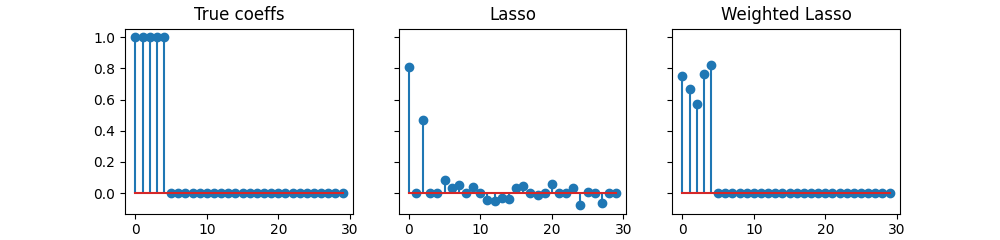
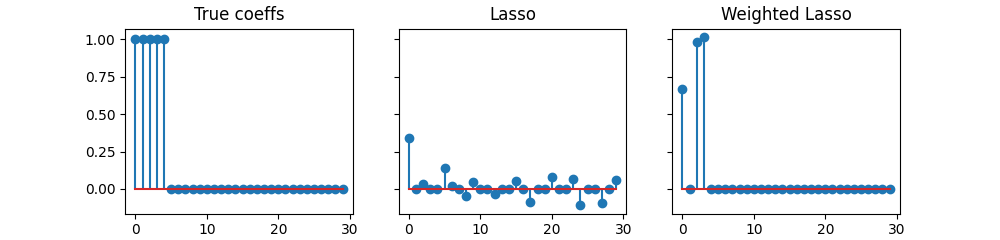
Generate Pelican site [ci skip]

diff --git a/searchindex.js b/searchindex.js
@@ -1,1 +1,1 @@
-Search.setIndex({docnames:["add","api","auto_examples/index","auto_examples/plot_lasso_vs_weighted","auto_examples/plot_pen_prox","auto_examples/plot_zero_weights_lasso","auto_examples/sg_execution_times","generated/andersoncd.ElasticNet","generated/andersoncd.Lasso","generated/andersoncd.MCP","generated/andersoncd.WeightedLasso","generated/andersoncd.data.make_correlated_data","generated/andersoncd.penalties.L1","generated/andersoncd.penalties.L1_plus_L2","generated/andersoncd.penalties.MCP_pen","generated/andersoncd.penalties.WeightedL1","index"],envversion:{"sphinx.domains.c":2,"sphinx.domains.changeset":1,"sphinx.domains.citation":1,"sphinx.domains.cpp":4,"sphinx.domains.index":1,"sphinx.domains.javascript":2,"sphinx.domains.math":2,"sphinx.domains.python":3,"sphinx.domains.rst":2,"sphinx.domains.std":2,"sphinx.ext.intersphinx":1,sphinx:56},filenames:["add.rst","api.rst","auto_examples/index.rst","auto_examples/plot_lasso_vs_weighted.rst","auto_examples/plot_pen_prox.rst","auto_examples/plot_zero_weights_lasso.rst","auto_examples/sg_execution_times.rst","generated/andersoncd.ElasticNet.rst","generated/andersoncd.Lasso.rst","generated/andersoncd.MCP.rst","generated/andersoncd.WeightedLasso.rst","generated/andersoncd.data.make_correlated_data.rst","generated/andersoncd.penalties.L1.rst","generated/andersoncd.penalties.L1_plus_L2.rst","generated/andersoncd.penalties.MCP_pen.rst","generated/andersoncd.penalties.WeightedL1.rst","index.rst"],objects:{"andersoncd.ElasticNet":{__init__:[7,1,1,""]},"andersoncd.Lasso":{__init__:[8,1,1,""]},"andersoncd.MCP":{__init__:[9,1,1,""]},"andersoncd.WeightedLasso":{__init__:[10,1,1,""]},"andersoncd.data":{make_correlated_data:[11,3,1,""]},"andersoncd.penalties":{L1:[12,0,1,""],L1_plus_L2:[13,0,1,""],MCP_pen:[14,0,1,""],WeightedL1:[15,0,1,""]},"andersoncd.penalties.L1":{__init__:[12,1,1,""]},"andersoncd.penalties.L1_plus_L2":{__init__:[13,1,1,""]},"andersoncd.penalties.MCP_pen":{__init__:[14,1,1,""]},"andersoncd.penalties.WeightedL1":{__init__:[15,1,1,""]},andersoncd:{ElasticNet:[7,0,1,""],Lasso:[8,0,1,""],MCP:[9,0,1,""],WeightedLasso:[10,0,1,""],data:[1,2,0,"-"]}},objnames:{"0":["py","class","Python class"],"1":["py","method","Python method"],"2":["py","module","Python module"],"3":["py","function","Python function"]},objtypes:{"0":"py:class","1":"py:method","2":"py:module","3":"py:function"},terms:{"0":[0,3,4,5,6,7,8,9,10,11],"00":[5,6],"0001":[7,8,9,10],"01":5,"02":5,"03":5,"05":5,"06":5,"07":6,"08":5,"08e":5,"09":6,"1":[0,3,4,5,7,8,9,10,11],"10":[3,5,7,8,9,10],"100":[5,7,8,9,10,11],"12":5,"13e":5,"14":5,"1582":5,"1583":5,"17":6,"19":[7,8,9,10],"1e":5,"2":[0,3,4,5,7,8,9,10,11],"20":5,"2018":[7,8,9,10],"2020":[7,8,9,10],"2021":[7,8,9,10],"20e":5,"22":5,"2_2":[7,8,9,10],"3":[3,4,5,7,8,9,10,11],"30":3,"300":4,"32":5,"357":[5,6],"387":[4,6],"4":[3,5],"5":[3,4,5,7],"50":[3,5,11],"50000":[7,8,9,10],"530":6,"53e":5,"54":5,"587":[7,8,9,10],"6":[5,11],"7":[4,5],"71e":5,"77e":5,"786":[3,6],"8":[4,5],"82e":5,"84e":5,"86e":5,"9":[3,5],"98e":5,"class":[0,7,8,9,10,12,13,14,15],"default":[7,8,9,10,11],"do":16,"float":[5,7,8,9,10,11],"function":[7,8,9,10],"import":[3,4,5,16],"int":[7,8,9,10,11],"new":0,"return":[0,11],"true":[3,4,5,7,8,9,10,11],"try":5,"while":3,A:[0,7,8,9,10,11],For:[0,7,9],If:[9,10,11,16],In:11,The:[5,7,8,9,10,11],To:[0,16],With:[0,9],_1:0,_:[3,5],__class__:4,__init__:[0,7,8,9,10,12,13,14,15],__name__:4,_cmap:5,_cmap_r:5,_name:5,_r:5,ab:[0,3,5],abl:16,abstractmethod:0,acceler:[5,7,8,9,10],accord:11,ad:11,adapt:5,aistat:[7,8,9,10],algorithm:9,all:2,allow:5,alpha:[0,3,4,5,7,8,9,10,12,13,14,15],alpha_max:[3,5],alreadi:5,amount:[7,8,9,10],an:[7,8,9,10,11],anaconda:16,anderson:[5,7,8,9,10,16],andersoncd:[0,1,3,4,5],ani:[0,16],applic:9,ar:[0,10],arbitrari:0,arg:[12,13,14,15],arrai:[0,4,7,8,9,10,11],assum:3,astyp:[0,5],attribut:[7,8,9,10,12,13,14,15],author:[3,4],auto_exampl:6,auto_examples_jupyt:2,auto_examples_python:2,avail:16,axarr:[3,4],axi:[0,3,5],axvlin:5,base:[7,8,9,10],basedatafit:0,basepenalti:0,befor:0,bertrand21a:[7,8,9,10],bertrand:[3,7,8,9,10],between:11,biolog:9,block:[3,4,5],bool:[7,8,9,10],bool_:0,breheni:9,c:16,c_:11,call:[7,8,9,10],can:[0,16],cd:[7,8,9,10,16],celer:[5,7,8,9,10],check:16,circleci:5,clf:5,click:[3,4,5],clone:16,cm:5,cmap:5,code:[2,3,4,5],coef_:[3,5,7,8,9,10],coeff:3,coeffici:[0,5,11],color:5,com:[4,16],combin:7,comput:[0,5],configure_plt:5,constant:[7,8,9,10],constrained_layout:4,coordin:[0,7,8,9,10,16],corr:[5,11],correl:11,correspond:0,cost:[7,8,9,10],covari:11,crest:5,crest_r:5,criterion:[7,8,9,10],data:[0,1,3,5],dataset:5,decai:11,decis:[7,8,9,10],declar:0,def:0,defin:0,definit:[7,8,9,10],demonstr:5,densiti:11,descent:[7,8,9,10,16],design:[0,11],detail:9,determin:11,determinist:11,distanc:0,distribut:16,document:16,doe:3,don:16,download:[2,3,4,5],dual:[5,7,8,9,10],e:[10,11,16],each:[7,8,9,10],elast:7,elasticnetcv:7,element:11,els:[0,5],empti:[0,5],entri:11,enumer:0,environ:16,epoch:[7,8,9,10],epsilon:11,equal:[9,10],eras:[7,8,9,10],error:16,estim:[5,7,8,9,10],everyth:16,exampl:[0,3,4,5],execut:6,exist:5,expect:11,extrapol:[7,8,9,10,16],fals:[3,4,5,7,8,9,10],fast:[5,7,8,9,10],feat:5,featur:[0,3,5,9,10,11],fetch_openml:5,fig:[3,4],figsiz:[3,4,5],figur:5,file:6,fine:16,first:[5,7,8,9,10,16],fit:[0,3,5,7,8,9,10],fit_intercept:[3,5,7,8,9,10],fit_transform:5,flare:5,flare_r:5,fontsiz:5,formula:[7,8,9,10],from:[0,3,4,5,16],full:[3,4,5],galleri:[3,4,5],gamma:[4,9,14],gaussian:11,gener:[0,2,3,4,5,11],git:16,github:16,give:16,glm:[7,8,9,10],gmail:4,grad:0,grad_j:0,gradeitn:0,gradient:0,gradient_scalar:0,gradient_scalar_spars:0,gramfort:[7,8,9,10],grow:[7,8,9,10],handl:5,hard:9,have:[3,11],here:[3,4,5],home:5,how:5,html:[7,8,9,10],http:[7,8,9,10,16],huang:9,i:[0,10,11],icefir:5,icefire_r:5,icml:[7,8,9,10],idx:0,idx_i:0,idx_nz:0,illustr:[3,4],implement:0,indic:0,inf:[9,11],inherit:0,initi:[0,7,8,9,10],initialize_spars:0,instanc:11,integ:[7,8,9,10],intercept:[7,8,9,10],intercept_:[7,8,9,10],ipynb:[3,4,5],is_pen:0,iter:[5,7,8,9,10],its:0,j:[0,7,8,9,10,11],jitclass:0,jmlr:[7,8,9,10],jupyt:[2,3,4,5],just:[7,8,9,10,16],k:5,kkt:[0,5],kwarg:[12,13,14,15],l1:[0,4,7,10],l1_plus_l2:4,l1_ratio:[4,7,13],l2:7,la:3,label:4,labelbinar:5,larg:5,larger:9,lasso:[2,6,7,9,10],lassocv:8,last:5,legend:4,len:[0,3,5],leukemia:5,lib:5,librari:16,linalg:[3,5],linear:0,linestyl:5,linspac:4,lipschitz:0,local:5,m:[7,8,9,10],make:11,make_correlated_data:[3,5],mako:5,mako_r:5,mask:0,massia:[3,4,7,8,9,10],massias18a:[7,8,9,10],mathbb:11,mathurin:[3,4],mathurinm:16,matplotlib:[3,4,5],matrix:[0,7,8,9,10,11],max:[0,3,5],max_epoch:[7,8,9,10],max_it:[7,8,9,10],maximum:[7,8,9,10],mb:6,mcp_pen:4,mcpcv:9,mean:11,messag:16,method:[0,7,8,9,10,12,13,14,15],minut:[3,4,5],mix:7,mlr:[7,8,9,10],mode:5,model:[0,11],more:9,mpl_cm:5,must:[0,11],n_featur:[0,3,5,7,8,9,10,11],n_iter_:[7,8,9,10],n_sampl:[3,5,7,8,9,10,11],ndarrai:11,need:0,net:7,nnz:[3,11],nois:[3,11],non:11,nonconvex:9,none:[10,11],norm:[3,5],normal:3,notebook:[2,3,4,5],np:[0,3,4,5,9,11],num:4,number:[7,8,9,10,11],numpi:[3,4,5],obj:9,object:[7,8,9,10],observ:11,ones:0,onli:0,oper:[0,2,6],optim:[7,8,9,10],option:[7,8,9,10],org:[7,8,9,10],other:3,otherwis:[7,8,9,10],out:5,own:0,p0:[7,8,9,10],packag:[5,16],paper:[7,8,9,10],paramet:[0,7,8,9,10,11],part:10,pass:0,pen:[4,9],penal:[0,3,9],penalti:[2,5,6,7,8,9,10],pip:16,plot:4,plot_lasso_vs_weight:[3,6],plot_pen_prox:[4,6],plot_util:5,plot_zero_weights_lasso:[5,6],plt:[3,4,5],posit:10,poster:5,preprocess:5,press:[7,8,9,10],previou:[7,8,9,10],primal:[5,7,8,9,10],proceed:[7,8,9,10],proport:11,prox:9,prox_1d:[0,4],proxim:[0,2,6],prune:[7,8,9,10],put:5,py:[3,4,5,6],pyplot:[3,4,5],python3:5,python:[2,3,4,5,16],q:[7,8,9,10],quad:11,quadrat:0,quentin:3,randn:3,random:[3,11],random_st:[3,11],randomst:11,rang:0,ratio:[3,11],reach:[7,8,9,10],reason:3,recommend:16,refer:[7,8,9,10],regist:5,register_cmap:5,regress:[9,11],repositori:16,represent:[7,8,9,10],requir:5,respect:0,return_x_i:5,reus:[7,8,9,10],rho:11,rocket:5,rocket_r:5,run:[3,4,5,16],s:[7,8,9,10],salmon:[7,8,9,10],sampl:11,scipi:[7,8,9,10],script:[3,4,5],seaborn:5,second:[3,4,5],see:[0,9],select:[3,9,11],self:0,set:[0,7,8,9,10],set_titl:[3,4],shape:[0,3,7,8,9,10,11],sharei:3,shell:16,should:[9,11,16],show:[3,4,5],sign:0,signal:[3,11],simu:5,simul:11,sinc:0,site:5,size:[7,8,9,10],sklearn:5,small:[3,5],smaller:3,smooth:0,snr:11,soft:9,solut:[7,8,9,10],solv:[0,7,8,9,10],solver:[5,7,8,9,10],some:[2,3,4,6],sourc:[2,3,4,5],spars:[0,4,7,8,9,10],sparse_coef_:[7,8,9,10],spec_l1:0,spec_quadrat:0,specifi:[7,8,9,10],sphinx:[2,3,4,5],st:0,standard:11,stem:[3,5],stepsiz:0,still:16,stop:[7,8,9,10],strength:[7,8,9,10],structur:11,subdiff_dist:0,subdifferenti:0,subpb:5,subplot:[3,4],subproblem:[7,8,9,10],success:11,sum:0,sum_j:[7,8,10],support:10,t:[0,3,5,16],term:[7,8,9,10],tex:5,text:11,th:0,than:[3,9],thi:[5,11,16],threshold:9,time:[3,4,5],titl:5,to_numpi:5,todo:0,toeplitz:11,tol:[5,7,8,9,10],toler:[7,8,9,10],total:[3,4,5,6],two:0,unpen:[5,10],us:[3,5,7,8,9,10,11,16],userwarn:5,usetex:5,v130:[7,8,9,10],v21:[7,8,9,10],v80:[7,8,9,10],vaiter:[7,8,9,10],valu:[0,2,6],vanish:5,varianc:11,vector:[0,7,8,9,10,11],verbos:[5,7,8,9,10],violat:[0,5],vlag:5,vlag_r:5,vs:[2,6],w:[0,7,8,9,10,11],w_j:[7,8,9,10],w_true:[3,11],want:16,warm_start:[7,8,9,10],we:[0,16],wei:3,weight:[2,4,6,10,15],weightedl1:4,weightedlasso:[3,5],weightedlassocv:10,weights_j:10,when:[0,3,7,8,9,10],whether:[7,8,9,10],which:[0,5],work:[0,7,8,9,10,16],ws:0,x:[0,3,4,5,7,8,9,10,11],x_data:0,x_i:11,x_indic:0,x_indptr:0,x_ix_j:11,x_rang:4,xj:0,xjtxw:0,xty:0,xw:0,y:[0,3,5,7,8,9,10,11],you:[0,16],your:0,zero:[0,2,3,6,11],zeros_lik:0,zip:2},titles:["How to add a custom penalty","API Documentation","Examples Gallery","Lasso vs Weighted Lasso","Value and proximal operators of penalties","Weighted Lasso with some zero weights","Computation times","andersoncd.ElasticNet","andersoncd.Lasso","andersoncd.MCP","andersoncd.WeightedLasso","andersoncd.data.make_correlated_data","andersoncd.penalties.L1","andersoncd.penalties.L1_plus_L2","andersoncd.penalties.MCP_pen","andersoncd.penalties.WeightedL1","andersoncd"],titleterms:{add:0,andersoncd:[7,8,9,10,11,12,13,14,15,16],api:[1,16],comput:6,custom:0,data:11,datafit:0,dataset:1,document:1,elasticnet:7,estim:1,exampl:2,fetcher:1,galleri:2,how:0,instal:16,l1:12,l1_plus_l2:13,lasso:[3,5,8],learn:1,like:1,make_correlated_data:11,mcp:9,mcp_pen:14,oper:4,penalti:[0,1,4,12,13,14,15],proxim:4,scikit:1,some:5,time:6,valu:4,vs:3,weight:[3,5],weightedl1:15,weightedlasso:10,zero:5}})
+Search.setIndex({docnames:["add","api","auto_examples/index","auto_examples/plot_lasso_vs_weighted","auto_examples/plot_pen_prox","auto_examples/plot_zero_weights_lasso","auto_examples/sg_execution_times","generated/andersoncd.ElasticNet","generated/andersoncd.Lasso","generated/andersoncd.MCP","generated/andersoncd.WeightedLasso","generated/andersoncd.data.make_correlated_data","generated/andersoncd.penalties.L1","generated/andersoncd.penalties.L1_plus_L2","generated/andersoncd.penalties.MCP_pen","generated/andersoncd.penalties.WeightedL1","index"],envversion:{"sphinx.domains.c":2,"sphinx.domains.changeset":1,"sphinx.domains.citation":1,"sphinx.domains.cpp":4,"sphinx.domains.index":1,"sphinx.domains.javascript":2,"sphinx.domains.math":2,"sphinx.domains.python":3,"sphinx.domains.rst":2,"sphinx.domains.std":2,"sphinx.ext.intersphinx":1,sphinx:56},filenames:["add.rst","api.rst","auto_examples/index.rst","auto_examples/plot_lasso_vs_weighted.rst","auto_examples/plot_pen_prox.rst","auto_examples/plot_zero_weights_lasso.rst","auto_examples/sg_execution_times.rst","generated/andersoncd.ElasticNet.rst","generated/andersoncd.Lasso.rst","generated/andersoncd.MCP.rst","generated/andersoncd.WeightedLasso.rst","generated/andersoncd.data.make_correlated_data.rst","generated/andersoncd.penalties.L1.rst","generated/andersoncd.penalties.L1_plus_L2.rst","generated/andersoncd.penalties.MCP_pen.rst","generated/andersoncd.penalties.WeightedL1.rst","index.rst"],objects:{"andersoncd.ElasticNet":{__init__:[7,1,1,""]},"andersoncd.Lasso":{__init__:[8,1,1,""]},"andersoncd.MCP":{__init__:[9,1,1,""]},"andersoncd.WeightedLasso":{__init__:[10,1,1,""]},"andersoncd.data":{make_correlated_data:[11,3,1,""]},"andersoncd.penalties":{L1:[12,0,1,""],L1_plus_L2:[13,0,1,""],MCP_pen:[14,0,1,""],WeightedL1:[15,0,1,""]},"andersoncd.penalties.L1":{__init__:[12,1,1,""]},"andersoncd.penalties.L1_plus_L2":{__init__:[13,1,1,""]},"andersoncd.penalties.MCP_pen":{__init__:[14,1,1,""]},"andersoncd.penalties.WeightedL1":{__init__:[15,1,1,""]},andersoncd:{ElasticNet:[7,0,1,""],Lasso:[8,0,1,""],MCP:[9,0,1,""],WeightedLasso:[10,0,1,""],data:[1,2,0,"-"]}},objnames:{"0":["py","class","Python class"],"1":["py","method","Python method"],"2":["py","module","Python module"],"3":["py","function","Python function"]},objtypes:{"0":"py:class","1":"py:method","2":"py:module","3":"py:function"},terms:{"0":[0,3,4,5,6,7,8,9,10,11],"00":[5,6],"0001":[7,8,9,10],"01":5,"03":5,"04":6,"05":5,"07":5,"07e":5,"09":[5,6],"1":[0,3,4,5,7,8,9,10,11],"10":[3,5,7,8,9,10],"100":[5,7,8,9,10,11],"107":6,"11":5,"14":5,"1582":5,"1583":5,"188":[5,6],"19":[7,8,9,10],"1e":5,"2":[0,3,4,5,7,8,9,10,11],"20":5,"2018":[7,8,9,10],"2020":[7,8,9,10],"2021":[7,8,9,10],"24":5,"254":[4,6],"28e":5,"2_2":[7,8,9,10],"3":[3,4,5,7,8,9,10,11],"30":3,"300":4,"34":5,"4":[3,4,5],"42e":5,"47e":5,"48":5,"5":[3,4,5,7],"50":[3,5,11],"50000":[7,8,9,10],"51e":5,"587":[7,8,9,10],"6":[5,11],"664":[3,6],"7":[4,5],"8":[4,5],"9":5,"91e":5,"97e":5,"class":[0,7,8,9,10,12,13,14,15],"default":[7,8,9,10,11],"do":16,"float":[5,7,8,9,10,11],"function":[7,8,9,10],"import":[3,4,5,16],"int":[7,8,9,10,11],"new":0,"return":[0,11],"true":[3,4,5,7,8,9,10,11],"try":5,"while":3,A:[0,7,8,9,10,11],For:[0,7,9],If:[9,10,11,16],In:11,The:[5,7,8,9,10,11],To:[0,16],With:[0,9],_1:0,_:[3,5],__class__:4,__init__:[0,7,8,9,10,12,13,14,15],__name__:4,_cmap:5,_cmap_r:5,_name:5,_r:5,ab:[0,3,5],abl:16,abstractmethod:0,acceler:[5,7,8,9,10],accord:11,ad:11,adapt:5,aistat:[7,8,9,10],algorithm:9,all:2,allow:5,alpha:[0,3,4,5,7,8,9,10,12,13,14,15],alpha_max:[3,5],alreadi:5,amount:[7,8,9,10],an:[7,8,9,10,11],anaconda:16,anderson:[5,7,8,9,10,16],andersoncd:[0,1,3,4,5],ani:[0,16],applic:9,ar:[0,10],arbitrari:0,arg:[12,13,14,15],arrai:[0,4,7,8,9,10,11],assum:3,astyp:5,attribut:[7,8,9,10,12,13,14,15],author:[3,4],auto_exampl:6,auto_examples_jupyt:2,auto_examples_python:2,avail:16,axarr:[3,4],axi:[3,5],axvlin:5,base:[7,8,9,10],basedatafit:0,basepenalti:0,befor:0,bertrand21a:[7,8,9,10],bertrand:[3,7,8,9,10],between:11,biolog:9,block:[3,4,5],bool:[7,8,9,10],bool_:0,breheni:9,c:16,c_:11,call:[7,8,9,10],can:[0,16],cd:[7,8,9,10,16],celer:[5,7,8,9,10],check:16,circleci:5,clf:5,click:[3,4,5],clone:16,cm:5,cmap:5,code:[2,3,4,5],coef_:[3,5,7,8,9,10],coeff:3,coeffici:[0,5,11],color:5,com:[4,16],combin:7,comput:[0,5],configure_plt:5,constant:[7,8,9,10],constrained_layout:4,coordin:[0,7,8,9,10,16],corr:[5,11],correl:11,correspond:0,cost:[7,8,9,10],covari:11,crest:5,crest_r:5,criterion:[7,8,9,10],data:[0,1,3,5],dataset:5,decai:11,decis:[7,8,9,10],declar:0,def:0,defin:0,definit:[7,8,9,10],demonstr:5,densiti:11,descent:[7,8,9,10,16],design:[0,11],detail:9,determin:11,determinist:11,distanc:0,distribut:16,document:16,doe:3,don:16,download:[2,3,4,5],dual:[5,7,8,9,10],e:[10,11,16],each:[7,8,9,10],elast:7,elasticnetcv:7,element:11,els:[0,5],empti:5,entri:11,enumer:0,environ:16,epoch:[7,8,9,10],epsilon:11,equal:[9,10],eras:[7,8,9,10],error:16,estim:[5,7,8,9,10],everyth:16,exampl:[0,3,4,5],execut:6,exist:5,expand:0,expect:11,extrapol:[7,8,9,10,16],fals:[3,4,5,7,8,9,10],fast:[5,7,8,9,10],faster:0,feat:5,featur:[0,3,5,9,10,11],fetch_openml:5,fig:[3,4],figsiz:[3,4,5],figur:5,file:6,fine:16,first:[5,7,8,9,10,16],fit:[0,3,5,7,8,9,10],fit_intercept:[3,5,7,8,9,10],fit_transform:5,flare:5,flare_r:5,follow:0,fontsiz:5,formula:[7,8,9,10],from:[0,3,4,5,16],full:[3,4,5],galleri:[3,4,5],gamma:[4,9,14],gaussian:11,gener:[0,2,3,4,5,11],git:16,github:16,give:16,glm:[7,8,9,10],gmail:4,grad:0,grad_j:0,gradeitn:0,gradient:0,gradient_scalar:0,gradient_scalar_spars:0,gramfort:[7,8,9,10],grow:[7,8,9,10],handl:5,hard:9,have:[3,11],here:[3,4,5],home:5,how:5,html:[7,8,9,10],http:[7,8,9,10,16],huang:9,i:[0,10,11],icefir:5,icefire_r:5,icml:[7,8,9,10],idx:0,idx_i:0,idx_nz:0,illustr:[3,4],implement:0,indic:0,inf:[9,11],inherit:0,initi:[0,7,8,9,10],initialize_spars:0,instanc:11,integ:[7,8,9,10],intercept:[7,8,9,10],intercept_:[7,8,9,10],ipynb:[3,4,5],is_pen:0,iter:[5,7,8,9,10],its:0,j:[0,7,8,9,10,11],jitclass:0,jmlr:[7,8,9,10],jupyt:[2,3,4,5],just:[7,8,9,10,16],k:5,kkt:[0,5],kwarg:[12,13,14,15],l1:[0,4,7,10],l1_plus_l2:4,l1_ratio:[4,7,13],l2:7,la:3,label:4,labelbinar:5,larg:5,larger:9,lasso:[2,6,7,9,10],lassocv:8,last:5,legend:4,len:[0,3,5],leukemia:5,lib:5,librari:16,lin:0,linalg:[3,5],linear:0,linestyl:5,linspac:4,lipschitz:0,local:5,m:[7,8,9,10],make:11,make_correlated_data:[3,5],mako:5,mako_r:5,mask:0,massia:[3,4,7,8,9,10],massias18a:[7,8,9,10],mathbb:11,mathurin:[3,4],mathurinm:16,matplotlib:[3,4,5],matrix:[0,7,8,9,10,11],max:[0,3,5],max_epoch:[7,8,9,10],max_it:[7,8,9,10],maximum:[7,8,9,10],mb:6,mcp_pen:4,mcpcv:9,mean:11,messag:16,method:[0,7,8,9,10,12,13,14,15],minut:[3,4,5],mix:7,mlr:[7,8,9,10],mode:5,model:[0,11],more:9,mpl_cm:5,must:[0,11],n_featur:[0,3,5,7,8,9,10,11],n_iter_:[7,8,9,10],n_sampl:[0,3,5,7,8,9,10,11],ndarrai:11,need:0,net:7,nnz:[3,11],nois:[3,11],non:11,nonconvex:9,none:[10,11],norm:[0,3,5],normal:3,notebook:[2,3,4,5],np:[0,3,4,5,9,11],num:4,number:[7,8,9,10,11],numpi:[3,4,5],obj:9,object:[7,8,9,10],observ:11,ones:0,onli:0,oper:[0,2,6],optim:[7,8,9,10],option:[7,8,9,10],org:[7,8,9,10],other:3,otherwis:[7,8,9,10],out:5,own:0,p0:[7,8,9,10],packag:[5,16],paper:[7,8,9,10],paramet:[0,7,8,9,10,11],part:10,pass:0,pen:[4,9],penal:[0,3,9],penalti:[2,5,6,7,8,9,10],pip:16,plot:4,plot_lasso_vs_weight:[3,6],plot_pen_prox:[4,6],plot_util:5,plot_zero_weights_lasso:[5,6],plt:[3,4,5],posit:10,poster:5,preprocess:5,press:[7,8,9,10],previou:[7,8,9,10],primal:[5,7,8,9,10],proceed:[7,8,9,10],proport:11,prox:9,prox_1d:[0,4],proxim:[0,2,6],prune:[7,8,9,10],put:5,py:[3,4,5,6],pyplot:[3,4,5],python3:5,python:[2,3,4,5,16],q:[7,8,9,10],quad:11,quadrat:0,quentin:3,randn:3,random:[3,11],random_st:[3,11],randomst:11,rang:0,ratio:[3,11],re:0,reach:[7,8,9,10],reason:3,recommend:16,refer:[7,8,9,10],regist:5,register_cmap:5,regress:[9,11],remark:0,repositori:16,represent:[7,8,9,10],requir:5,respect:0,return_x_i:5,reus:[7,8,9,10],rho:11,rocket:5,rocket_r:5,run:[3,4,5,16],s:[7,8,9,10],salmon:[7,8,9,10],sampl:11,scipi:[7,8,9,10],script:[3,4,5],seaborn:5,second:[3,4,5],see:[0,9],select:[3,9,11],self:0,set:[0,7,8,9,10],set_titl:[3,4],shape:[0,3,7,8,9,10,11],sharei:3,shell:16,should:[9,11,16],show:[3,4,5],sign:0,signal:[3,11],simu:5,simul:11,sinc:0,site:5,size:[7,8,9,10],sklearn:5,small:[3,5],smaller:3,smooth:0,snr:11,soft:9,solut:[7,8,9,10],solv:[0,7,8,9,10],solver:[5,7,8,9,10],some:[2,3,4,6],sourc:[2,3,4,5],spars:[0,4,7,8,9,10],sparse_coef_:[7,8,9,10],spec_l1:0,spec_quadrat:0,specifi:[7,8,9,10],sphinx:[2,3,4,5],st:0,standard:11,stem:[3,5],stepsiz:0,still:16,stop:[7,8,9,10],strength:[7,8,9,10],structur:11,subdiff_dist:0,subdifferenti:0,subpb:5,subplot:[3,4],subproblem:[7,8,9,10],success:11,sum:0,sum_j:[7,8,10],support:10,t:[0,3,5,16],term:[7,8,9,10],tex:5,text:11,th:0,than:[0,3,9],thi:[5,11,16],threshold:9,time:[3,4,5],titl:5,to_numpi:5,todo:0,toeplitz:11,tol:[5,7,8,9,10],toler:[7,8,9,10],total:[3,4,5,6],two:0,unpen:[5,10],us:[3,5,7,8,9,10,11,16],use_acc:8,userwarn:5,usetex:5,v130:[7,8,9,10],v21:[7,8,9,10],v80:[7,8,9,10],vaiter:[7,8,9,10],valu:[0,2,6],vanish:5,varianc:11,vector:[0,7,8,9,10,11],verbos:[5,7,8,9,10],violat:[0,5],vlag:5,vlag_r:5,vs:[2,6],w:[0,7,8,9,10,11],w_j:[7,8,9,10],w_true:[3,11],want:16,warm_start:[7,8,9,10],we:[0,16],wei:3,weight:[2,4,6,10,15],weightedl1:4,weightedlasso:[3,5],weightedlassocv:10,weights_j:10,when:[0,3,7,8,9,10],whether:[7,8,9,10],which:[0,5],work:[0,7,8,9,10,16],ws:0,x:[0,3,4,5,7,8,9,10,11],x_data:0,x_i:11,x_indic:0,x_indptr:0,x_ix_j:11,x_rang:4,xj:0,xjtxw:0,xty:0,xw:0,y:[0,3,5,7,8,9,10,11],you:[0,16],your:0,zero:[0,2,3,6,11],zeros_lik:0,zip:2},titles:["How to add a custom penalty","API Documentation","Examples Gallery","Lasso vs Weighted Lasso","Value and proximal operators of penalties","Weighted Lasso with some zero weights","Computation times","andersoncd.ElasticNet","andersoncd.Lasso","andersoncd.MCP","andersoncd.WeightedLasso","andersoncd.data.make_correlated_data","andersoncd.penalties.L1","andersoncd.penalties.L1_plus_L2","andersoncd.penalties.MCP_pen","andersoncd.penalties.WeightedL1","andersoncd"],titleterms:{add:0,andersoncd:[7,8,9,10,11,12,13,14,15,16],api:[1,16],comput:6,custom:0,data:11,datafit:0,dataset:1,document:1,elasticnet:7,estim:1,exampl:2,fetcher:1,galleri:2,how:0,instal:16,l1:12,l1_plus_l2:13,lasso:[3,5,8],learn:1,like:1,make_correlated_data:11,mcp:9,mcp_pen:14,oper:4,penalti:[0,1,4,12,13,14,15],proxim:4,scikit:1,some:5,time:6,valu:4,vs:3,weight:[3,5],weightedl1:15,weightedlasso:10,zero:5}})

diff --git a/add.html b/add.html
@@ -178,7 +178,7 @@
         <span class="k">return</span> <span class="n">subdiff_dist</span>
 
     <span class="k">def</span> <span class="nf">is_penalized</span><span class="p">(</span><span class="bp">self</span><span class="p">,</span> <span class="n">n_features</span><span class="p">):</span>
-        <span class="k">return</span> <span class="n">np</span><span class="o">.</span><span class="n">ones</span><span class="p">(</span><span class="n">n_features</span><span class="p">)</span><span class="o">.</span><span class="n">astype</span><span class="p">(</span><span class="n">bool_</span><span class="p">)</span>
+        <span class="k">return</span> <span class="n">np</span><span class="o">.</span><span class="n">ones</span><span class="p">(</span><span class="n">n_features</span><span class="p">,</span> <span class="n">bool_</span><span class="p">)</span>
 </pre></div>
 </div>
 </section>
@@ -217,24 +217,38 @@ See for example the implementation of the <code class="docutils literal notransl
 
     <span class="k">def</span> <span class="nf">initialize</span><span class="p">(</span><span class="bp">self</span><span class="p">,</span> <span class="n">X</span><span class="p">,</span> <span class="n">y</span><span class="p">):</span>
         <span class="bp">self</span><span class="o">.</span><span class="n">Xty</span> <span class="o">=</span> <span class="n">X</span><span class="o">.</span><span class="n">T</span> <span class="o">@</span> <span class="n">y</span>
-        <span class="bp">self</span><span class="o">.</span><span class="n">lipschitz</span> <span class="o">=</span> <span class="p">(</span><span class="n">X</span> <span class="o">**</span> <span class="mi">2</span><span class="p">)</span><span class="o">.</span><span class="n">sum</span><span class="p">(</span><span class="n">axis</span><span class="o">=</span><span class="mi">0</span><span class="p">)</span> <span class="o">/</span> <span class="nb">len</span><span class="p">(</span><span class="n">y</span><span class="p">)</span>
+        <span class="n">n_samples</span><span class="p">,</span> <span class="n">n_features</span> <span class="o">=</span> <span class="n">X</span><span class="o">.</span><span class="n">shape</span>
+        <span class="bp">self</span><span class="o">.</span><span class="n">lipschitz</span> <span class="o">=</span> <span class="n">np</span><span class="o">.</span><span class="n">zeros</span><span class="p">(</span><span class="n">n_features</span><span class="p">)</span>
+        <span class="k">for</span> <span class="n">j</span> <span class="ow">in</span> <span class="nb">range</span><span class="p">(</span><span class="n">n_features</span><span class="p">):</span>
+            <span class="bp">self</span><span class="o">.</span><span class="n">lipschitz</span><span class="p">[</span><span class="n">j</span><span class="p">]</span> <span class="o">=</span> <span class="n">norm</span><span class="p">(</span><span class="n">X</span><span class="p">[:,</span> <span class="n">j</span><span class="p">])</span> <span class="o">**</span> <span class="mi">2</span> <span class="o">/</span> <span class="nb">len</span><span class="p">(</span><span class="n">y</span><span class="p">)</span>
+            <span class="c1"># for i in range(n_samples):</span>
+            <span class="c1">#     self.lipschitz[j] += X[i, j] ** 2 / len(y)</span>
 
     <span class="k">def</span> <span class="nf">initialize_sparse</span><span class="p">(</span>
             <span class="bp">self</span><span class="p">,</span> <span class="n">X_data</span><span class="p">,</span> <span class="n">X_indptr</span><span class="p">,</span> <span class="n">X_indices</span><span class="p">,</span> <span class="n">y</span><span class="p">):</span>
         <span class="n">n_features</span> <span class="o">=</span> <span class="nb">len</span><span class="p">(</span><span class="n">X_indptr</span><span class="p">)</span> <span class="o">-</span> <span class="mi">1</span>
         <span class="bp">self</span><span class="o">.</span><span class="n">Xty</span> <span class="o">=</span> <span class="n">np</span><span class="o">.</span><span class="n">zeros</span><span class="p">(</span><span class="n">n_features</span><span class="p">)</span>
-        <span class="bp">self</span><span class="o">.</span><span class="n">lipschitz</span> <span class="o">=</span> <span class="n">np</span><span class="o">.</span><span class="n">empty</span><span class="p">(</span><span class="n">n_features</span><span class="p">)</span>
+        <span class="bp">self</span><span class="o">.</span><span class="n">lipschitz</span> <span class="o">=</span> <span class="n">np</span><span class="o">.</span><span class="n">zeros</span><span class="p">(</span><span class="n">n_features</span><span class="p">)</span>
         <span class="k">for</span> <span class="n">j</span> <span class="ow">in</span> <span class="nb">range</span><span class="p">(</span><span class="n">n_features</span><span class="p">):</span>
-            <span class="n">Xj</span> <span class="o">=</span> <span class="n">X_data</span><span class="p">[</span><span class="n">X_indptr</span><span class="p">[</span><span class="n">j</span><span class="p">]:</span><span class="n">X_indptr</span><span class="p">[</span><span class="n">j</span><span class="o">+</span><span class="mi">1</span><span class="p">]]</span>
-            <span class="n">idx_nz</span> <span class="o">=</span> <span class="n">X_indices</span><span class="p">[</span><span class="n">X_indptr</span><span class="p">[</span><span class="n">j</span><span class="p">]:</span><span class="n">X_indptr</span><span class="p">[</span><span class="n">j</span><span class="o">+</span><span class="mi">1</span><span class="p">]]</span>
+            <span class="n">Xj</span> <span class="o">=</span> <span class="n">X_data</span><span class="p">[</span><span class="n">X_indptr</span><span class="p">[</span><span class="n">j</span><span class="p">]:</span><span class="n">X_indptr</span><span class="p">[</span><span class="n">j</span> <span class="o">+</span> <span class="mi">1</span><span class="p">]]</span>
+            <span class="n">idx_nz</span> <span class="o">=</span> <span class="n">X_indices</span><span class="p">[</span><span class="n">X_indptr</span><span class="p">[</span><span class="n">j</span><span class="p">]:</span><span class="n">X_indptr</span><span class="p">[</span><span class="n">j</span> <span class="o">+</span> <span class="mi">1</span><span class="p">]]</span>
             <span class="k">for</span> <span class="n">i</span><span class="p">,</span> <span class="n">idx_i</span> <span class="ow">in</span> <span class="nb">enumerate</span><span class="p">(</span><span class="n">idx_nz</span><span class="p">):</span>
                 <span class="bp">self</span><span class="o">.</span><span class="n">Xty</span><span class="p">[</span><span class="n">j</span><span class="p">]</span> <span class="o">+=</span> <span class="n">Xj</span><span class="p">[</span><span class="n">i</span><span class="p">]</span> <span class="o">*</span> <span class="n">y</span><span class="p">[</span><span class="n">idx_i</span><span class="p">]</span>
-            <span class="bp">self</span><span class="o">.</span><span class="n">lipschitz</span><span class="p">[</span><span class="n">j</span><span class="p">]</span> <span class="o">=</span> <span class="p">(</span><span class="n">Xj</span> <span class="o">**</span> <span class="mi">2</span><span class="p">)</span><span class="o">.</span><span class="n">sum</span><span class="p">()</span> <span class="o">/</span> <span class="nb">len</span><span class="p">(</span><span class="n">y</span><span class="p">)</span>
+                <span class="bp">self</span><span class="o">.</span><span class="n">lipschitz</span><span class="p">[</span><span class="n">j</span><span class="p">]</span> <span class="o">+=</span> <span class="n">Xj</span><span class="p">[</span><span class="n">i</span><span class="p">]</span> <span class="o">**</span> <span class="mi">2</span> <span class="o">/</span> <span class="nb">len</span><span class="p">(</span><span class="n">y</span><span class="p">)</span>
 
     <span class="k">def</span> <span class="nf">value</span><span class="p">(</span><span class="bp">self</span><span class="p">,</span> <span class="n">y</span><span class="p">,</span> <span class="n">w</span><span class="p">,</span> <span class="n">Xw</span><span class="p">):</span>
         <span class="k">return</span> <span class="n">np</span><span class="o">.</span><span class="n">sum</span><span class="p">((</span><span class="n">y</span> <span class="o">-</span> <span class="n">Xw</span><span class="p">)</span> <span class="o">**</span> <span class="mi">2</span><span class="p">)</span> <span class="o">/</span> <span class="p">(</span><span class="mi">2</span> <span class="o">*</span> <span class="nb">len</span><span class="p">(</span><span class="n">Xw</span><span class="p">))</span>
 
     <span class="k">def</span> <span class="nf">gradient_scalar</span><span class="p">(</span><span class="bp">self</span><span class="p">,</span> <span class="n">X</span><span class="p">,</span> <span class="n">y</span><span class="p">,</span> <span class="n">w</span><span class="p">,</span> <span class="n">Xw</span><span class="p">,</span> <span class="n">j</span><span class="p">):</span>
+        <span class="c1"># res = 0</span>
+        <span class="c1"># n_samples = len(Xw)</span>
+        <span class="c1"># for i in range(n_samples):</span>
+        <span class="c1">#     if X[i, j] != 0 and Xw[i] != 0:</span>
+        <span class="c1">#         res += X[i, j] * Xw[i]</span>
+        <span class="c1"># res -= self.Xty[j]</span>
+        <span class="c1"># res /= len(Xw)</span>
+        <span class="c1"># return res</span>
+        <span class="c1"># Remark: the following lin is faster than expanding the computation</span>
         <span class="k">return</span> <span class="p">(</span><span class="n">X</span><span class="p">[:,</span> <span class="n">j</span><span class="p">]</span> <span class="o">@</span> <span class="n">Xw</span> <span class="o">-</span> <span class="bp">self</span><span class="o">.</span><span class="n">Xty</span><span class="p">[</span><span class="n">j</span><span class="p">])</span> <span class="o">/</span> <span class="nb">len</span><span class="p">(</span><span class="n">Xw</span><span class="p">)</span>
 
     <span class="k">def</span> <span class="nf">gradient_scalar_sparse</span><span class="p">(</span><span class="bp">self</span><span class="p">,</span> <span class="n">Xj</span><span class="p">,</span> <span class="n">idx_nz</span><span class="p">,</span> <span class="n">y</span><span class="p">,</span> <span class="n">Xw</span><span class="p">,</span> <span class="n">j</span><span class="p">):</span>

diff --git a/auto_examples/plot_zero_weights_lasso.html b/auto_examples/plot_zero_weights_lasso.html
@@ -150,25 +150,21 @@ usetex mode requires TeX.
 #########################
 ##### Computing alpha 1/1
 #########################
-KKT max violation: 2.08e+00
+KKT max violation: 2.42e+00
 Iteration 1, 20 feats in subpb.
-KKT max violation: 3.82e-01
-Iteration 2, 22 feats in subpb.
-KKT max violation: 3.13e-01
-Iteration 3, 32 feats in subpb.
-KKT max violation: 4.98e-02
-Iteration 4, 50 feats in subpb.
-KKT max violation: 1.77e-03
-Iteration 5, 54 feats in subpb.
-KKT max violation: 3.84e-05
-Iteration 6, 54 feats in subpb.
-KKT max violation: 1.20e-06
-Iteration 7, 54 feats in subpb.
-KKT max violation: 2.53e-08
-Iteration 8, 54 feats in subpb.
-KKT max violation: 3.71e-10
-Iteration 9, 54 feats in subpb.
-KKT max violation: 9.86e-12
+KKT max violation: 9.28e-01
+Iteration 2, 24 feats in subpb.
+KKT max violation: 2.42e-01
+Iteration 3, 34 feats in subpb.
+KKT max violation: 5.07e-03
+Iteration 4, 48 feats in subpb.
+KKT max violation: 9.97e-05
+Iteration 5, 50 feats in subpb.
+KKT max violation: 9.91e-07
+Iteration 6, 50 feats in subpb.
+KKT max violation: 7.51e-09
+Iteration 7, 50 feats in subpb.
+KKT max violation: 4.47e-11
 </pre></div>
 </div>
 <div class="line-block">
@@ -222,7 +218,7 @@ KKT max violation: 9.86e-12
 <a href="https://matplotlib.org/api/_as_gen/matplotlib.pyplot.show.html#matplotlib.pyplot.show" title="matplotlib.pyplot.show" class="sphx-glr-backref-module-matplotlib-pyplot sphx-glr-backref-type-py-function"><span class="n">plt</span><span class="o">.</span><span class="n">show</span></a><span class="p">(</span><span class="n">block</span><span class="o">=</span><span class="kc">False</span><span class="p">)</span>
 </pre></div>
 </div>
-<p class="sphx-glr-timing"><strong>Total running time of the script:</strong> ( 0 minutes  0.357 seconds)</p>
+<p class="sphx-glr-timing"><strong>Total running time of the script:</strong> ( 0 minutes  0.188 seconds)</p>
 <div class="sphx-glr-footer class sphx-glr-footer-example docutils container" id="sphx-glr-download-auto-examples-plot-zero-weights-lasso-py">
 <div class="sphx-glr-download sphx-glr-download-python docutils container">
 <p><a class="reference download internal" download="" href="../_downloads/89290840534fd8d122073c19c43a299e/plot_zero_weights_lasso.py"><code class="xref download docutils literal notranslate"><span class="pre">Download</span> <span class="pre">Python</span> <span class="pre">source</span> <span class="pre">code:</span> <span class="pre">plot_zero_weights_lasso.py</span></code></a></p>

diff --git a/auto_examples/sg_execution_times.html b/auto_examples/sg_execution_times.html
@@ -113,7 +113,7 @@
       
   <section id="computation-times">
 <span id="sphx-glr-auto-examples-sg-execution-times"></span><h1>Computation times<a class="headerlink" href="#computation-times" title="Permalink to this headline">¶</a></h1>
-<p><strong>00:17.530</strong> total execution time for <strong>auto_examples</strong> files:</p>
+<p><strong>00:09.107</strong> total execution time for <strong>auto_examples</strong> files:</p>
 <table class="docutils align-default">
 <colgroup>
 <col style="width: 83%" />
@@ -122,15 +122,15 @@
 </colgroup>
 <tbody>
 <tr class="row-odd"><td><p><a class="reference internal" href="plot_lasso_vs_weighted.html#sphx-glr-auto-examples-plot-lasso-vs-weighted-py"><span class="std std-ref">Lasso vs Weighted Lasso</span></a> (<code class="docutils literal notranslate"><span class="pre">plot_lasso_vs_weighted.py</span></code>)</p></td>
-<td><p>00:09.786</p></td>
+<td><p>00:04.664</p></td>
 <td><p>0.0 MB</p></td>
 </tr>
 <tr class="row-even"><td><p><a class="reference internal" href="plot_pen_prox.html#sphx-glr-auto-examples-plot-pen-prox-py"><span class="std std-ref">Value and proximal operators of penalties</span></a> (<code class="docutils literal notranslate"><span class="pre">plot_pen_prox.py</span></code>)</p></td>
-<td><p>00:07.387</p></td>
+<td><p>00:04.254</p></td>
 <td><p>0.0 MB</p></td>
 </tr>
 <tr class="row-odd"><td><p><a class="reference internal" href="plot_zero_weights_lasso.html#sphx-glr-auto-examples-plot-zero-weights-lasso-py"><span class="std std-ref">Weighted Lasso with some zero weights</span></a> (<code class="docutils literal notranslate"><span class="pre">plot_zero_weights_lasso.py</span></code>)</p></td>
-<td><p>00:00.357</p></td>
+<td><p>00:00.188</p></td>
 <td><p>0.0 MB</p></td>
 </tr>
 </tbody>

diff --git a/auto_examples/plot_lasso_vs_weighted.html b/auto_examples/plot_lasso_vs_weighted.html
@@ -161,7 +161,7 @@ to download the full example code</p>
 <a href="https://matplotlib.org/api/_as_gen/matplotlib.pyplot.show.html#matplotlib.pyplot.show" title="matplotlib.pyplot.show" class="sphx-glr-backref-module-matplotlib-pyplot sphx-glr-backref-type-py-function"><span class="n">plt</span><span class="o">.</span><span class="n">show</span></a><span class="p">(</span><span class="n">block</span><span class="o">=</span><span class="kc">False</span><span class="p">)</span>
 </pre></div>
 </div>
-<p class="sphx-glr-timing"><strong>Total running time of the script:</strong> ( 0 minutes  9.786 seconds)</p>
+<p class="sphx-glr-timing"><strong>Total running time of the script:</strong> ( 0 minutes  4.664 seconds)</p>
 <div class="sphx-glr-footer class sphx-glr-footer-example docutils container" id="sphx-glr-download-auto-examples-plot-lasso-vs-weighted-py">
 <div class="sphx-glr-download sphx-glr-download-python docutils container">
 <p><a class="reference download internal" download="" href="../_downloads/da11841ccec757dcc5d37b03790095f4/plot_lasso_vs_weighted.py"><code class="xref download docutils literal notranslate"><span class="pre">Download</span> <span class="pre">Python</span> <span class="pre">source</span> <span class="pre">code:</span> <span class="pre">plot_lasso_vs_weighted.py</span></code></a></p>

diff --git a/auto_examples/plot_pen_prox.html b/auto_examples/plot_pen_prox.html
@@ -153,7 +153,7 @@ to download the full example code</p>
 <a href="https://matplotlib.org/api/_as_gen/matplotlib.pyplot.show.html#matplotlib.pyplot.show" title="matplotlib.pyplot.show" class="sphx-glr-backref-module-matplotlib-pyplot sphx-glr-backref-type-py-function"><span class="n">plt</span><span class="o">.</span><span class="n">show</span></a><span class="p">(</span><span class="n">block</span><span class="o">=</span><span class="kc">False</span><span class="p">)</span>
 </pre></div>
 </div>
-<p class="sphx-glr-timing"><strong>Total running time of the script:</strong> ( 0 minutes  7.387 seconds)</p>
+<p class="sphx-glr-timing"><strong>Total running time of the script:</strong> ( 0 minutes  4.254 seconds)</p>
 <div class="sphx-glr-footer class sphx-glr-footer-example docutils container" id="sphx-glr-download-auto-examples-plot-pen-prox-py">
 <div class="sphx-glr-download sphx-glr-download-python docutils container">
 <p><a class="reference download internal" download="" href="../_downloads/cc812928a1d14d5044f1a4661632d141/plot_pen_prox.py"><code class="xref download docutils literal notranslate"><span class="pre">Download</span> <span class="pre">Python</span> <span class="pre">source</span> <span class="pre">code:</span> <span class="pre">plot_pen_prox.py</span></code></a></p>
